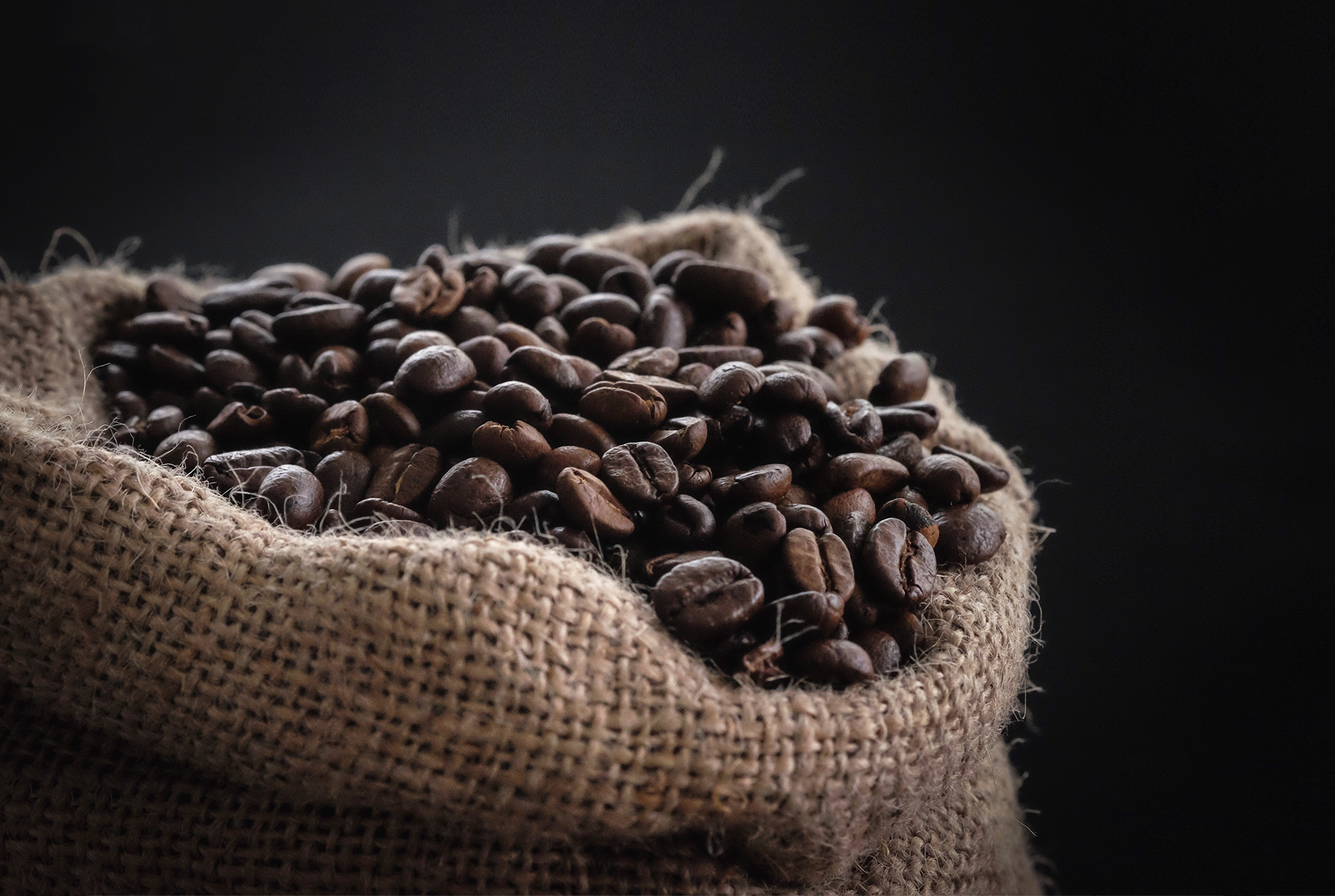
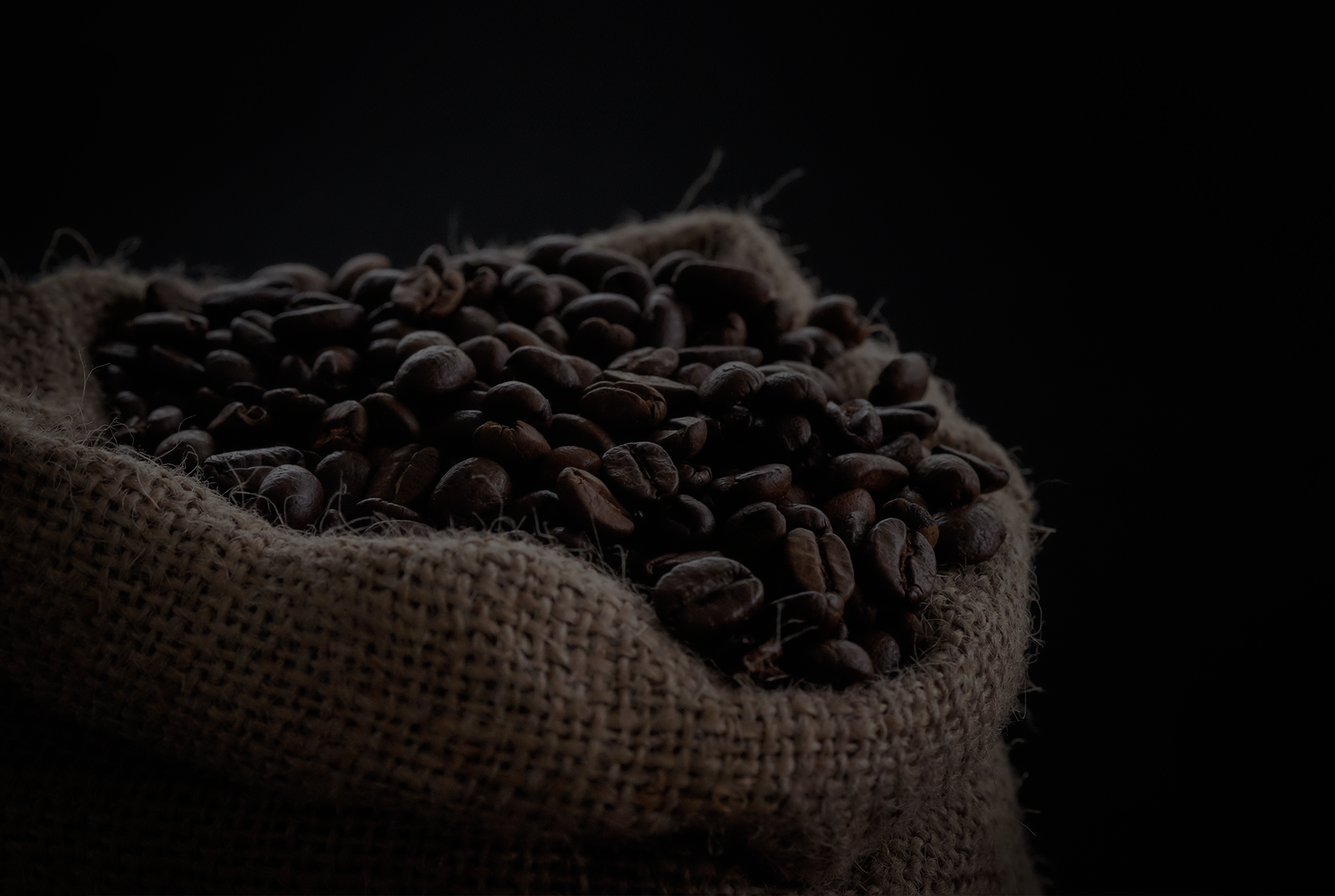
Problem with scss - npm run does not work

diff --git a/src/index.html b/src/index.html
@@ -4,13 +4,56 @@
     <meta charset="UTF-8" />
     <meta http-equiv="X-UA-Compatible" content="IE=edge" />
     <meta name="viewport" content="width=device-width, initial-scale=1.0" />
+    <link rel="preconnect" href="https://fonts.googleapis.com" />
+    <link rel="preconnect" href="https://fonts.gstatic.com" crossorigin />
+    <link rel="preconnect" href="https://fonts.googleapis.com" />
+    <link rel="preconnect" href="https://fonts.gstatic.com" crossorigin />
+    <link
+      href="https://fonts.googleapis.com/css2?family=Source+Sans+Pro:ital,wght@0,200;0,900;1,300;1,600&display=swap"
+      rel="stylesheet"
+    />
     <link rel="stylesheet" href="css/style.css" />
     <title>Individual project 1</title>
   </head>
   <body>
-    <h2>Individual project</h2>
-    <p>Coffee Shop</p>
+    <header class="header">
+      <div class="container">
+        <div class="header-wrapper">
+          <div class="logo">
+            <h1>EL TIGRE</h1>
+            <p>VENEZUELA COFFEE BEANS</p>
+          </div>
 
-    <script src="js/script.js"></script>
+          <div class="main-nav">
+            <a href="#home">HOME</a>
+            <a href="#products">PRODUCTS</a>
+            <a href="#contact">CONTACT</a>
+          </div>
+        </div>
+      </div>
+    </header>
+
+    <div id="pages">
+      <section id="home">
+        <div class="homepage-wrapper container">
+          <div class="main-title">
+            <p id="first">HOME OF</p>
+            <p id="second">ORIGINAL TASTES</p>
+          </div>
+          <div class="discover">
+            <h4>DISCOVER</h4>
+            <p>icon</p>
+          </div>
+        </div>
+      </section>
+      <section id="products">
+        <div class="products-wrapper container">Products</div>
+      </section>
+      <section id="contact">
+        <div class="about-wrapper container">Contact</div>
+      </section>
+    </div>
+
+    <script src="js/app.js" type="module"></script>
   </body>
 </html>

diff --git a/src/js/app.js b/src/js/app.js
@@ -1,0 +1,51 @@
+import { classNames, select } from './settings.js'
+
+const app = {
+  initPages: function () {
+    const thisApp = this
+
+    this.pages = document.querySelector(select.containerOf.pages).children
+
+    this.navLinks = document.querySelectorAll(select.nav.links)
+
+    const idFromHash = window.location.hash.replace('#/', '')
+
+    let pageMatchingHash = thisApp.pages[0].id
+
+    for (let page of this.pages) {
+      if (page.id == idFromHash) {
+        pageMatchingHash = page.id
+        break
+      }
+    }
+
+    this.activatePage(pageMatchingHash)
+
+    for (let link of this.navLinks) {
+      link.addEventListener('click', function (e) {
+        e.preventDefault()
+        const clickedElement = this
+
+        const id = clickedElement.getAttribute('href').replace('#', '')
+
+        thisApp.activatePage(id)
+
+        window.location.hash = '#/' + id
+      })
+    }
+  },
+
+  activatePage: function (pageId) {
+    const thisApp = this
+
+    for (let page of thisApp.pages) {
+      page.classList.toggle(classNames.pages.active, page.id == pageId)
+    }
+  },
+
+  init: function () {
+    this.initPages()
+  },
+}
+
+app.init()

diff --git a/src/sass/partials/home.scss b/src/sass/partials/home.scss
@@ -1,0 +1,37 @@
+.homepage-wrapper {
+  height: 90vh;
+  display: flex;
+  align-items: center;
+  justify-content: space-between;
+  flex-direction: column;
+}
+
+section#home {
+  background: url('../../images/background.png') no-repeat center center/cover;
+  color: $color-cream;
+}
+
+.main-title {
+  height: 200px;
+  width: 700px;
+
+  margin-top: 24%;
+  font-weight: bold;
+  font-size: 50px;
+  //background: rgb(171, 43, 43);
+  border-bottom: 3px solid $color-cream;
+  p {
+    letter-spacing: 4px;
+  }
+  p#first {
+    margin-right: 20%;
+  }
+
+  p#second {
+    margin-left: 20%;
+  }
+}
+
+.discover {
+  margin-bottom: 30px;
+}

diff --git a/src/sass/partials/header.scss b/src/sass/partials/header.scss
@@ -1,0 +1,29 @@
+.header-wrapper {
+  height: 10vh;
+  background: $color-black;
+  display: flex;
+  align-items: center;
+  justify-content: space-between;
+}
+
+.main-nav {
+  a {
+    text-decoration: none;
+    color: $color-gray;
+    margin-right: 30px;
+  }
+}
+
+.logo {
+  margin-left: 50px;
+  letter-spacing: 5px;
+
+  h1 {
+    font-size: 30px;
+    font-weight: bold;
+  }
+  p {
+    font-size: 14px;
+    letter-spacing: 2px;
+  }
+}

diff --git a/src/js/settings.js b/src/js/settings.js
@@ -1,0 +1,28 @@
+export const select = {
+  templateOf: {
+    product: '',
+  },
+  containerOf: {
+    pages: '#pages',
+  },
+  nav: {
+    links: '.main-nav a',
+  },
+}
+
+export const classNames = {
+  nav: {
+    active: 'active',
+  },
+  pages: {
+    active: 'active',
+  },
+}
+
+export const settings = {
+  db: {},
+}
+
+export const templates = {
+  product: '',
+}

diff --git a/src/sass/partials/global.scss b/src/sass/partials/global.scss
@@ -1,0 +1,27 @@
+* {
+  margin: 0;
+  padding: 0;
+  box-sizing: border-box;
+}
+
+body {
+  font-family: $font-family;
+  background: $color-black;
+  color: $color-white;
+  font-size: 16px;
+}
+
+#pages {
+  > * {
+    display: none;
+  }
+
+  > .active {
+    display: block;
+  }
+}
+
+.container {
+  max-width: 1100px;
+  margin: 0 auto;
+}

diff --git a/src/sass/style.scss b/src/sass/style.scss
@@ -1,4 +1,6 @@
-body {
-  background: steelblue;
-  font-family: sans-serif;
-}
+@import './partials/settings.scss';
+@import './partials/global.scss';
+@import './partials/header.scss';
+@import './partials/about.scss';
+@import './partials/products.scss';
+@import './partials/home.scss';

diff --git a/src/sass/partials/settings.scss b/src/sass/partials/settings.scss
@@ -1,0 +1,7 @@
+$font-family: 'Source Sans Pro', sans-serif;
+
+// COLORS
+$color-cream: #bea67c;
+$color-white: #fff;
+$color-black: #000;
+$color-gray: #818181;

diff --git a/src/sass/partials/products.scss b/src/sass/partials/products.scss
@@ -1,0 +1,4 @@
+.products-wrapper {
+  background: $color-white;
+  color: $color-black;
+}
